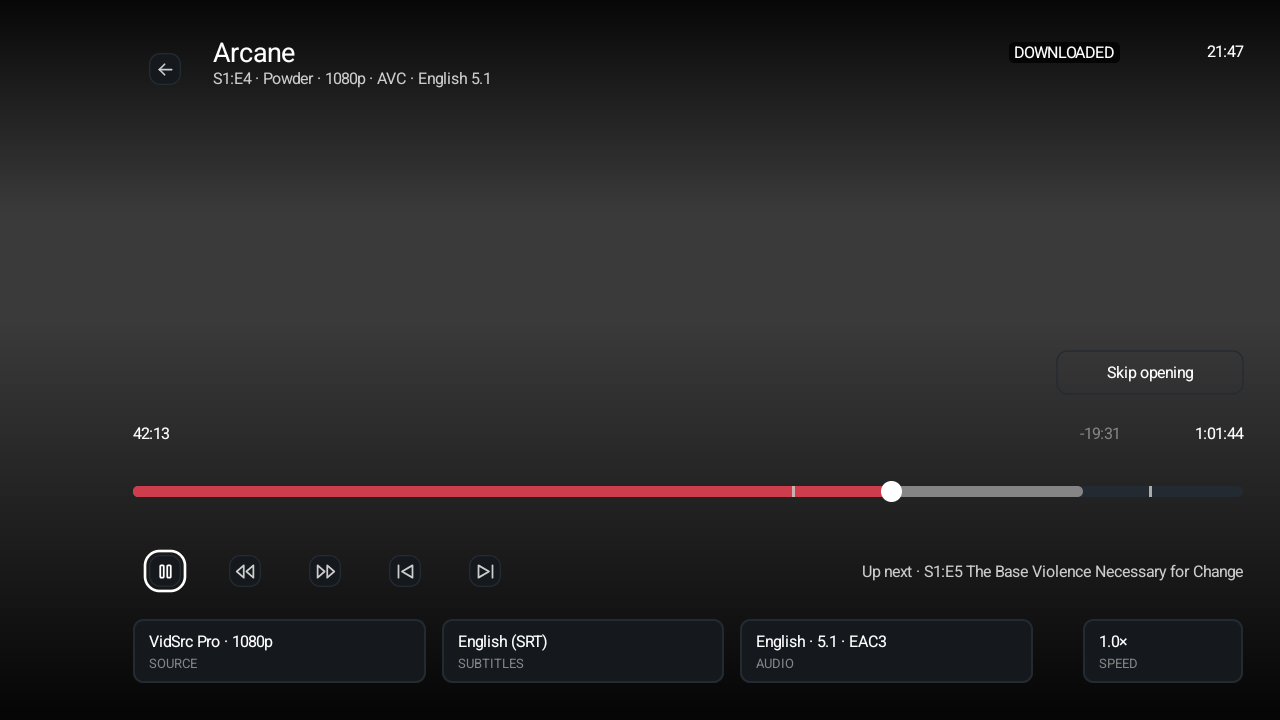
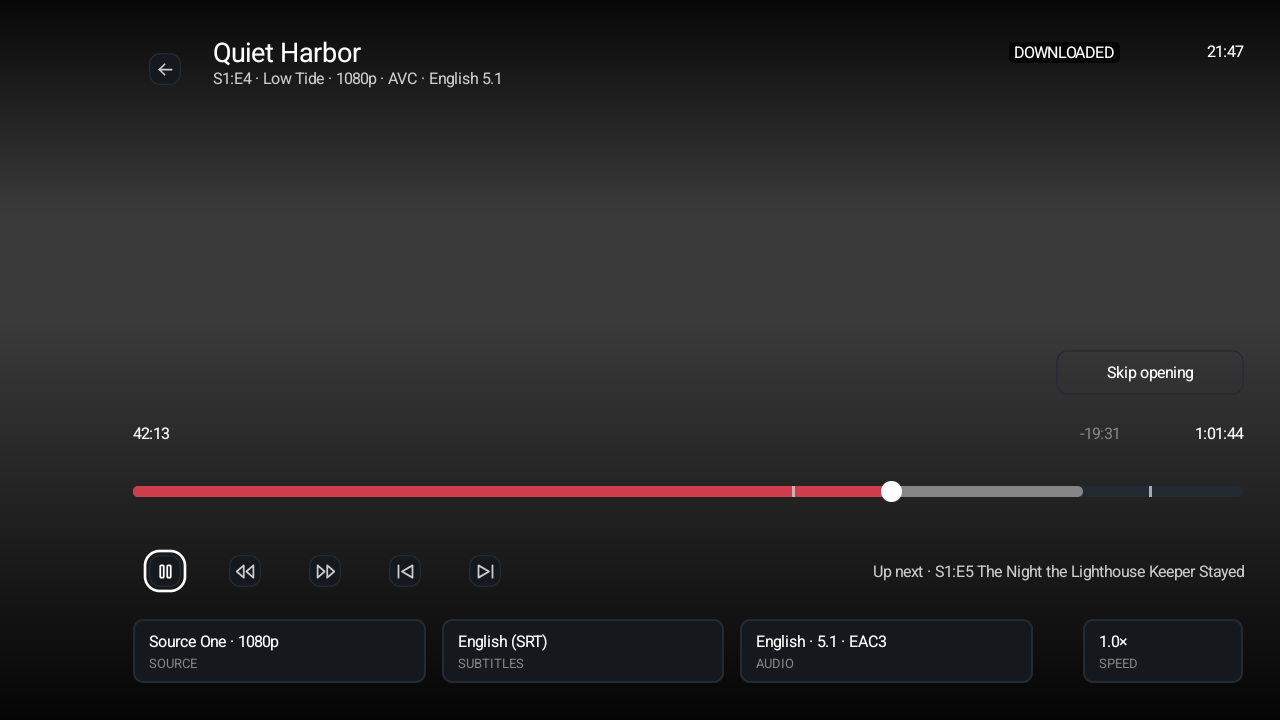
BUG-70: made-up source and title names in two HUD tests
TvHudFactsTest and PlayerHudTvDeviceTest named a real streaming site and
real titles. They now use DS-23's made-up names, keeping every property
a test depends on. Five screenshot references are re-recorded after the
diff was read: every changed pixel is in the four lines whose words
changed. Test code only.

Changed region(s): [[0.6875, 0.7639, 0.9688, 0.825], [0.1562, 0.0611, 0.4062, 0.1222], [0.125, 0.8861, 0.2188, 0.9167]]

diff --git a/feature/player/src/androidDeviceTest/kotlin/com/lagradost/cloudstream4/feature/player/tv/PlayerHudTvDeviceTest.kt b/feature/player/src/androidDeviceTest/kotlin/com/lagradost/cloudstream4/feature/player/tv/PlayerHudTvDeviceTest.kt
@@ -64,9 +64,9 @@ class PlayerHudTvDeviceTest {
     fun theBoardsReadoutsAreAllThere() {
         show()
         for (text in listOf(
-            "Arcane", "S1:E4 · Powder · 1080p · AVC · English 5.1", "DOWNLOADED", "21:47",
-            "42:13", "-19:31", "1:01:44", "Up next · S1:E5 The Base Violence Necessary for Change",
-            "VidSrc Pro · 1080p", "SOURCE", "English (SRT)", "SUBTITLES", "English · 5.1 · EAC3", "AUDIO", "1.0×", "SPEED",
+            "Quiet Harbor", "S1:E4 · Low Tide · 1080p · AVC · English 5.1", "DOWNLOADED", "21:47",
+            "42:13", "-19:31", "1:01:44", "Up next · S1:E5 The Night the Lighthouse Keeper Stayed",
+            "Source One · 1080p", "SOURCE", "English (SRT)", "SUBTITLES", "English · 5.1 · EAC3", "AUDIO", "1.0×", "SPEED",
             "Skip opening",
         )) rule.onNodeWithText(text).assertExists()
     }
@@ -87,7 +87,7 @@ class PlayerHudTvDeviceTest {
         repeat(4) { dpad.press(Dpad.Left) }
         assertEquals(PAUSE, dpad.focused())
         val below = dpad.press(Dpad.Down).orEmpty()
-        assertEquals("Down from play/pause is SOURCE, was $below", true, below.startsWith("VidSrc Pro · 1080p"))
+        assertEquals("Down from play/pause is SOURCE, was $below", true, below.startsWith("Source One · 1080p"))
     }
 
     @Test
@@ -149,7 +149,7 @@ class PlayerHudTvDeviceTest {
         show(shown = false, readout = ScrubReadout(deltaMs = 30_000, targetMs = 2_563_000))
         rule.onNodeWithText("+00:30 → 42:43").assertExists()
         rule.onNodeWithText("Skip opening").assertExists()
-        rule.onAllNodesWithText("Arcane").assertCountEquals(0)
+        rule.onAllNodesWithText("Quiet Harbor").assertCountEquals(0)
         rule.onAllNodesWithText("SOURCE").assertCountEquals(0)
     }
 
@@ -194,7 +194,7 @@ class PlayerHudTvDeviceTest {
     /** A film, not a series, with nothing known yet: no length, no tracks, no next. Nothing invented. */
     @Test
     fun screenshotNothingKnownYet() {
-        show(PlayerHudState(title = "Dune: Part Two", playing = false))
+        show(PlayerHudState(title = "Northern Reach", playing = false))
         rule.assertScreenshot("player-hud-nothing-known")
     }
 
@@ -210,8 +210,8 @@ class PlayerHudTvDeviceTest {
 
         /** 7d's data. */
         val Board = PlayerHudState(
-            title = "Arcane",
-            meta = "S1:E4 · Powder · 1080p · AVC · English 5.1",
+            title = "Quiet Harbor",
+            meta = "S1:E4 · Low Tide · 1080p · AVC · English 5.1",
             downloaded = true,
             playing = true,
             positionMs = 2_533_000,
@@ -221,8 +221,8 @@ class PlayerHudTvDeviceTest {
             skip = HudSkip("Skip opening"),
             hasPrevious = true,
             hasNext = true,
-            upNext = "S1:E5 The Base Violence Necessary for Change",
-            source = "VidSrc Pro · 1080p",
+            upNext = "S1:E5 The Night the Lighthouse Keeper Stayed",
+            source = "Source One · 1080p",
             subtitles = "English (SRT)",
             audio = "English · 5.1 · EAC3",
             speed = 1f,

diff --git a/app/src/test/java/com/lagradost/cloudstream4/player/TvHudFactsTest.kt b/app/src/test/java/com/lagradost/cloudstream4/player/TvHudFactsTest.kt
@@ -17,8 +17,8 @@ import org.junit.Test
 class TvHudFactsTest {
 
     @Suppress("DEPRECATION")
-    private fun link(name: String = "VidSrc Pro") = ExtractorLink(
-        source = "vidsrc",
+    private fun link(name: String = "Source One") = ExtractorLink(
+        source = "sourceone",
         name = name,
         url = "https://stream.example.invalid/$SECRET_PATH/master.m3u8?token=$SECRET_TOKEN",
         referer = "https://referer.example.invalid/$SECRET_REFERER",
@@ -28,7 +28,7 @@ class TvHudFactsTest {
     )
 
     private fun facts(
-        title: String = "Arcane",
+        title: String = "Quiet Harbor",
         link: ExtractorLink? = link(),
         downloaded: Boolean = false,
         subtitle: String? = "English (SRT)",
@@ -38,7 +38,7 @@ class TvHudFactsTest {
         title = title,
         season = 1,
         episode = 4,
-        episodeName = "Powder",
+        episodeName = "Low Tide",
         videoHeight = 1080,
         videoCodec = "AVC",
         audioLanguage = "English",
@@ -60,7 +60,7 @@ class TvHudFactsTest {
         hasNext = true,
         nextSeason = 1,
         nextEpisode = 5,
-        nextName = "The Base Violence Necessary for Change",
+        nextName = "The Night the Lighthouse Keeper Stayed",
         failed = failed,
         offline = offline,
     )
@@ -68,12 +68,12 @@ class TvHudFactsTest {
     @Test
     fun theBoardsLinesComeOutOfTheBoardsFacts() {
         val state = facts().toHudState()
-        assertEquals("Arcane", state.title)
-        assertEquals("S1:E4 · Powder · 1080p · AVC · English 5.1", state.meta)
-        assertEquals("VidSrc Pro · 1080p", state.source)
+        assertEquals("Quiet Harbor", state.title)
+        assertEquals("S1:E4 · Low Tide · 1080p · AVC · English 5.1", state.meta)
+        assertEquals("Source One · 1080p", state.source)
         assertEquals("English · 5.1 · EAC3", state.audio)
         assertEquals("English (SRT)", state.subtitles)
-        assertEquals("S1:E5 The Base Violence Necessary for Change", state.upNext)
+        assertEquals("S1:E5 The Night the Lighthouse Keeper Stayed", state.upNext)
         assertEquals("Skip opening", state.skip?.label)
         assertEquals(listOf(1_200_000L, 3_200_000L), state.marks)
     }
@@ -127,14 +127,14 @@ class TvHudFactsTest {
     /** Titles keep their punctuation: only an address is dropped from them, not a question mark. */
     @Test
     fun aTitleWithAQuestionMarkStays() {
-        val state = facts(title = "What If...?").toHudState()
-        assertEquals("What If...?", state.title)
+        val state = facts(title = "Harbor Lights...?").toHudState()
+        assertEquals("Harbor Lights...?", state.title)
     }
 
     @Test
     fun providerTextLosesControlCharacters() {
-        val state = facts(link = link(name = "Vid\nSrc\u0007 Pro")).toHudState()
-        assertEquals("VidSrc Pro · 1080p", state.source)
+        val state = facts(link = link(name = "Sou\nrce\u0007 One")).toHudState()
+        assertEquals("Source One · 1080p", state.source)
     }
 
     @Test

diff --git a/docs/tasks/defects.md b/docs/tasks/defects.md
@@ -2449,3 +2449,38 @@ unchanged: ten steps lower than what launched it. Nothing outside the test chang
 - At parent 5 (Gradle run under `nice -n 5`, no daemon): host 15, pass. This is the gates' failure, which the old
   assertion failed on with `expected:<10> but was:<15>`.
 - **Red:** with `nice -n 10` taken out of the launcher, `expected:<10> but was:<0>`. Restored afterwards.
+
+## BUG-70 — Two HUD tests named a real streaming site and real titles · **low, test only**
+
+**Status:** fixed in this PR · the PM's call, 2026-11-08
+
+`TvHudFactsTest` (`:app`) and `PlayerHudTvDeviceTest` (`:feature:player`) used a real site's name ("VidSrc Pro", source id
+`vidsrc`), and the titles of real shows and films ("Arcane" with episodes "Powder" and "The Base Violence Necessary for
+Change", "What If...?", "Dune: Part Two"). Tests, screenshots and previews get copied, so they use names that belong to
+no real title or site, as `DS-23` set.
+
+**Fix, test code only:**
+
+| Was | Now |
+|---|---|
+| "VidSrc Pro", `vidsrc` | "Source One", `sourceone` |
+| "Vid\nSrc\u0007 Pro" | "Sou\nrce\u0007 One" |
+| "Arcane", "Powder" | "Quiet Harbor", "Low Tide" |
+| "The Base Violence Necessary for Change" | "The Night the Lighthouse Keeper Stayed" |
+| "What If...?" | "Harbor Lights...?" |
+| "Dune: Part Two" | "Northern Reach" |
+
+Every property a test depends on is kept:
+- The control-character variant still breaks a word with `\n` and puts `\u0007` before the space, and it still cleans to
+  the same name the default link has.
+- The title still ends in `...?`, which `toHudState` must keep.
+- The long Up next title is the same length, 38 characters.
+
+**Screenshots.** Five of `PlayerHudTvDeviceTest`'s six references changed. All five draw the title or the source:
+- `shown`, `buffering`, `failed` and `offline` differed in 8,036 pixels each;
+- `nothing-known` differed in 2,233;
+- `hidden-scrub` stayed the same.
+
+The diff was read before recording. Every changed pixel lies inside the four lines whose words changed (the title, the
+episode line, Up next and the source cell), and nothing else moved. After the re-record, a compare run on
+`Television_720p` passed 14 of 14 device tests, with all six screenshots identical (0 pixels). `TvHudFactsTest`: 8 of 8.
